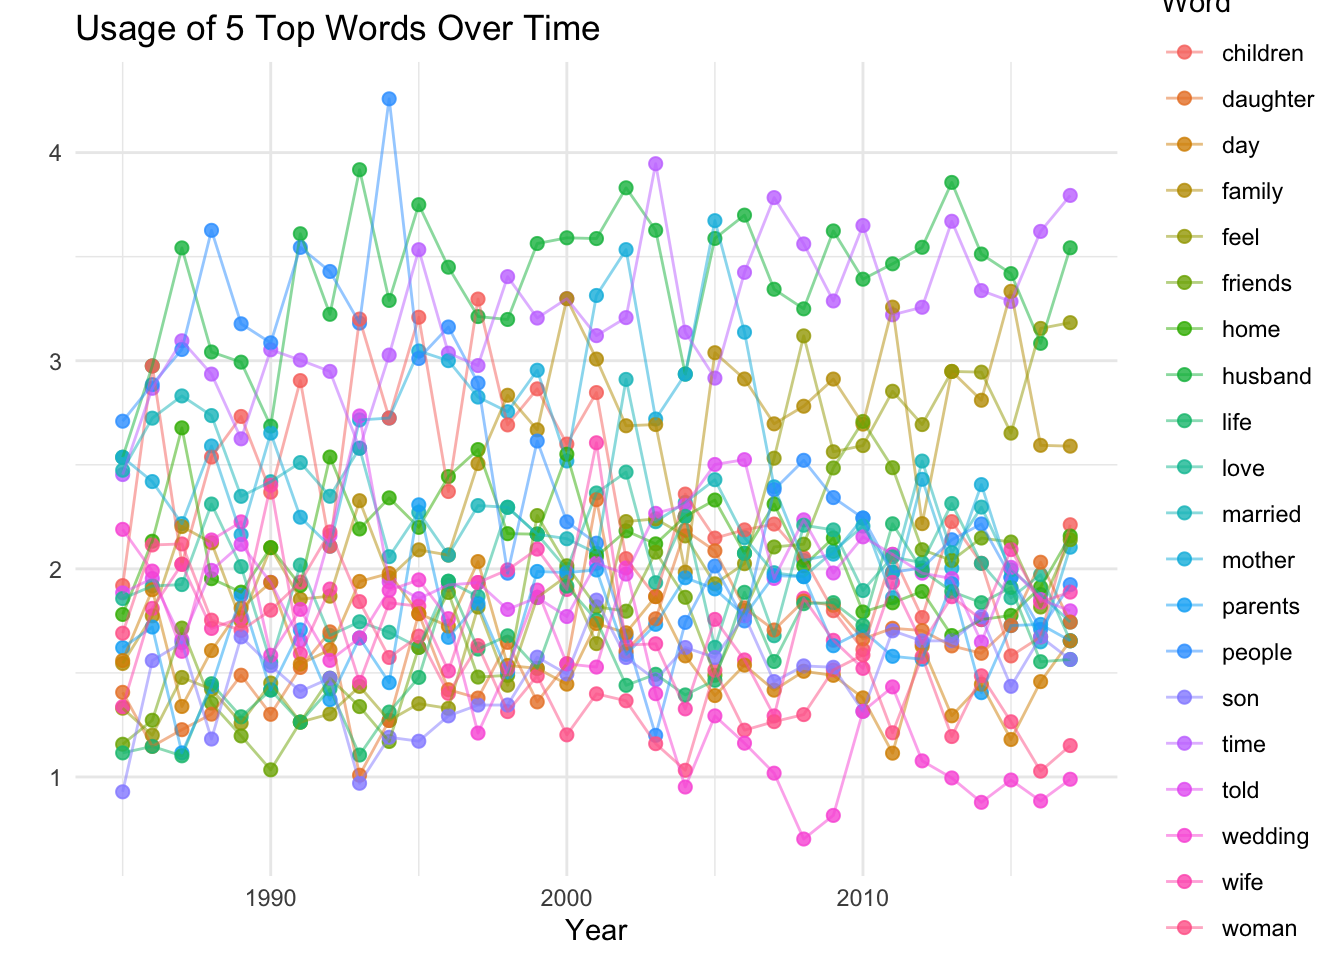
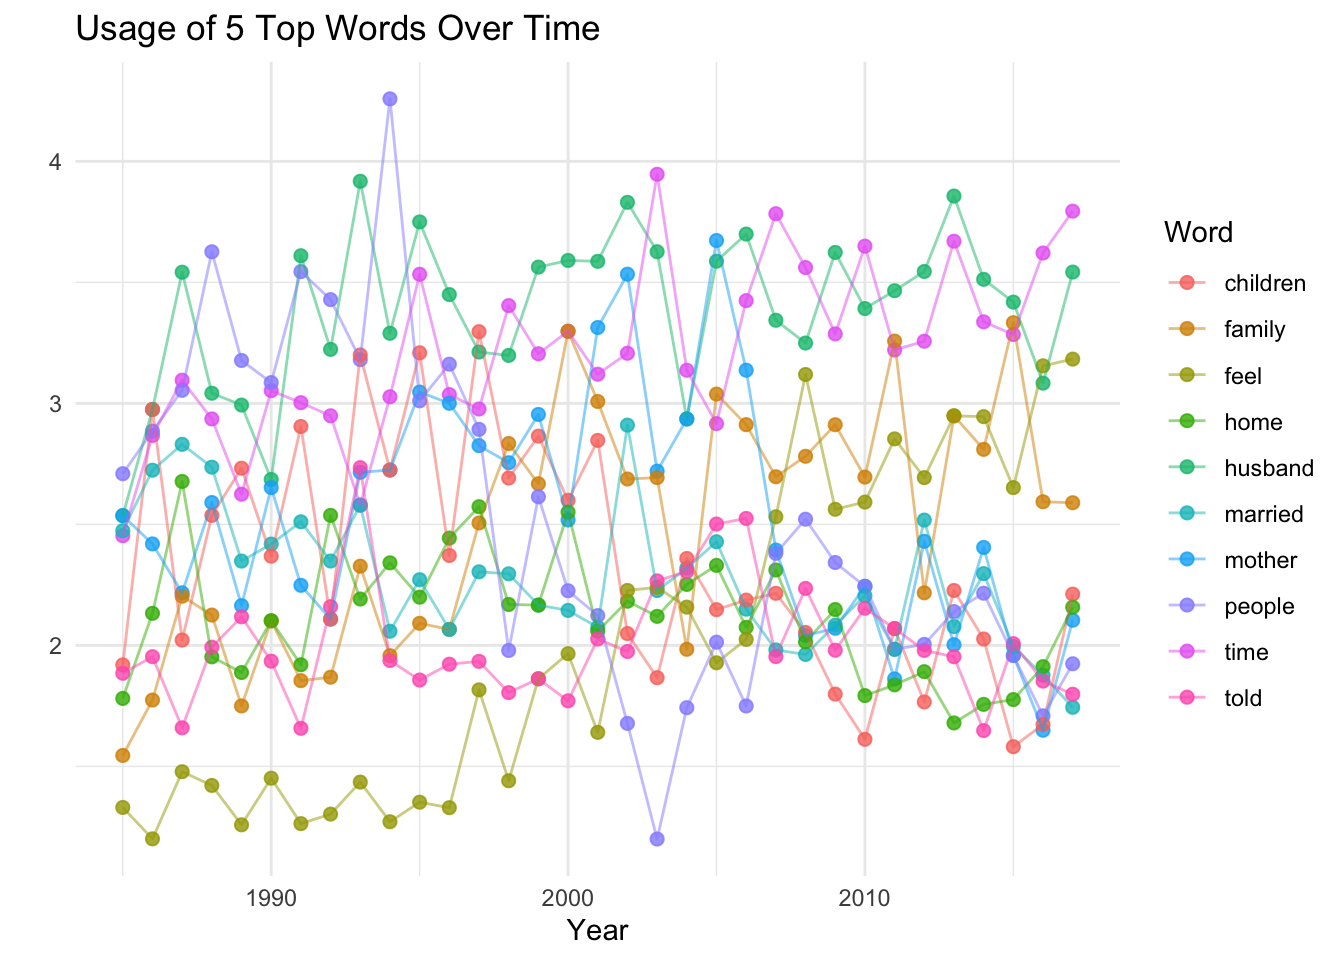
este

diff --git a/docs/pudding.html b/docs/pudding.html
@@ -405,7 +405,7 @@ pre > code.sourceCode > span > a:first-child::before { text-decoration: underlin
 <div class="code-copy-outer-scaffold"><div class="sourceCode cell-code" id="cb7"><pre class="sourceCode r code-with-copy"><code class="sourceCode r"><span id="cb7-1"><a href="#cb7-1" aria-hidden="true" tabindex="-1"></a><span class="co"># 1. Identify the top 10 words based on word_total</span></span>
 <span id="cb7-2"><a href="#cb7-2" aria-hidden="true" tabindex="-1"></a>top_10_words <span class="ot">&lt;-</span> words_by_year_prop_w <span class="sc">%&gt;%</span> </span>
 <span id="cb7-3"><a href="#cb7-3" aria-hidden="true" tabindex="-1"></a>  <span class="fu">distinct</span>(word, word_total) <span class="sc">%&gt;%</span> </span>
-<span id="cb7-4"><a href="#cb7-4" aria-hidden="true" tabindex="-1"></a>  <span class="fu">slice_max</span>(word_total, <span class="at">n =</span> <span class="dv">20</span>) <span class="sc">%&gt;%</span> </span>
+<span id="cb7-4"><a href="#cb7-4" aria-hidden="true" tabindex="-1"></a>  <span class="fu">slice_max</span>(word_total, <span class="at">n =</span> <span class="dv">10</span>) <span class="sc">%&gt;%</span> </span>
 <span id="cb7-5"><a href="#cb7-5" aria-hidden="true" tabindex="-1"></a>  <span class="fu">pull</span>(word)</span>
 <span id="cb7-6"><a href="#cb7-6" aria-hidden="true" tabindex="-1"></a></span>
 <span id="cb7-7"><a href="#cb7-7" aria-hidden="true" tabindex="-1"></a><span class="co"># 2. Filter your dataset for only those top 10 words and plot</span></span>
